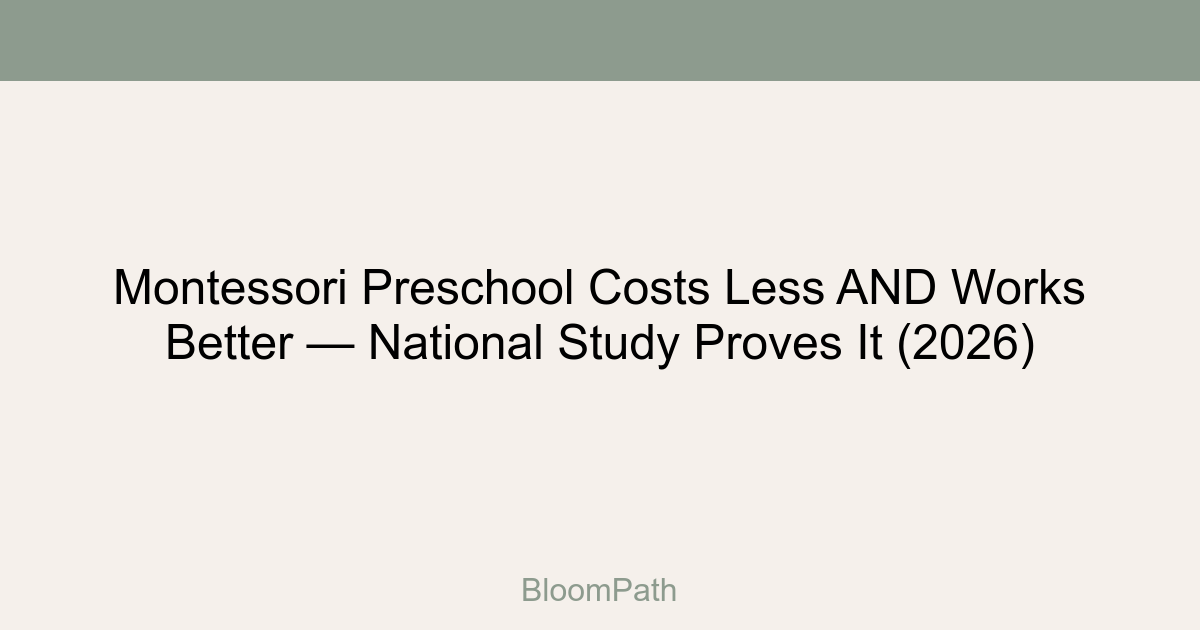
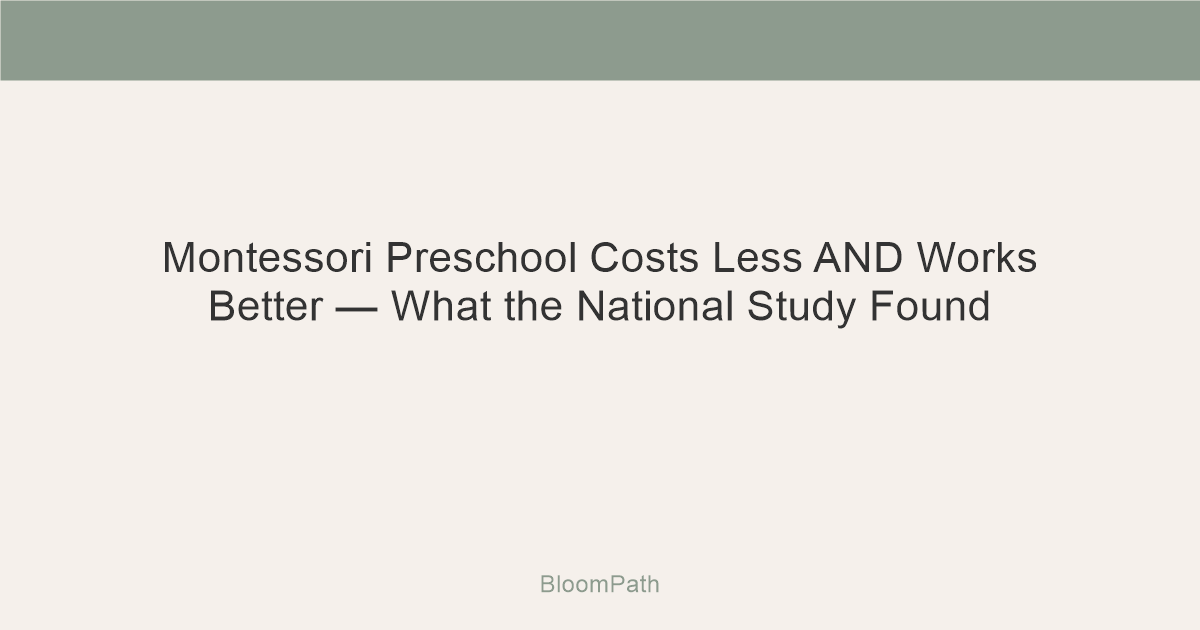
Correct the study year in four PNAS Montessori titles
The Lillard et al. national trial was published in PNAS in October 2025;
four titles called it a 2026 study. Update titles, link text, OG images
and the titles index.

Changed region(s): [[0.0925, 0.3619, 0.925, 0.573], [0.4317, 0.9048, 0.555, 0.9651]]

diff --git a/src/content/blog/short-video-addiction-tweens-montessori-en.md b/src/content/blog/short-video-addiction-tweens-montessori-en.md
@@ -90,6 +90,6 @@ Move the phone's charging spot out of the bedroom, replace algorithm-fed feeds w
 - [Your Kid Came Home From a Birthday Party Begging for Roblox? Set Up These 5 Things Before You Say Yes](/en/blog/kid-wants-roblox-parental-controls-en)
 - [Is AI Doing My Kid's Thinking For Her? What 'Cognitive Debt' Research Actually Says](/en/blog/ai-cognitive-debt-kids-en)
 - [Teen Mental Health in 2026: Warning Signs Every Parent Should Know](/en/blog/teen-mental-health-warning-signs-2026-en)
-- [Montessori Preschool Costs Less AND Works Better — National Study Proves It (2026)](/en/blog/montessori-national-study-2026-results-en)
+- [Montessori Preschool Costs Less AND Works Better — What the National Study Found](/en/blog/montessori-national-study-2026-results-en)
 
 You don't need to ban every screen or win every argument tonight. You just need to change what the environment makes easiest.

diff --git a/src/content/blog/kid-cries-over-mistakes-perfectionism-en.md b/src/content/blog/kid-cries-over-mistakes-perfectionism-en.md
@@ -119,4 +119,4 @@ Want a simple place to jot down what actually helps when your kid is having a ha
 - [Toddler Low Frustration Tolerance: Why Small Things Cause Big Meltdowns](/en/blog/toddler-low-frustration-tolerance-meltdowns-en)
 - [Why Your Toddler Lies (And Why It's Actually a Sign of a Smart Brain)](/en/blog/why-toddler-lies-en)
 - [Should Kids Get Paid for Chores? What Montessori Actually Says About Contribution vs. Cash](/en/blog/should-kids-be-paid-for-chores-montessori-en)
-- [Montessori vs Traditional Preschool: What the 2026 PNAS Study Reveals About Executive Function](/en/blog/montessori-executive-function-pnas-2026-parent-guide-en)
+- [Montessori vs Traditional Preschool: What the PNAS Study Reveals About Executive Function](/en/blog/montessori-executive-function-pnas-2026-parent-guide-en)

diff --git a/src/content/blog/kid-cries-over-mistakes-perfectionism-zh.md b/src/content/blog/kid-cries-over-mistakes-perfectionism-zh.md
@@ -119,4 +119,4 @@ draft: false
 - [六點半才肯打開作業本：孩子功課拖到快抓狂，工程師爸爸的除錯筆記](/zh/blog/kids-homework-procrastination-zh)
 - [孩子一點小事就崩潰、動不動就大哭：挫折耐受度是可以練的](/zh/blog/toddler-low-frustration-tolerance-zh)
 - [孩子說謊不是我弄的！3 個正確第一反應讓他以後主動說真話](/zh/blog/why-toddler-lies-zh)
-- [蒙特梭利幼兒園真的比較好嗎？2026 PNAS 研究揭密執行功能的關鍵](/zh/blog/montessori-executive-function-pnas-2026-parent-guide-zh)
+- [蒙特梭利幼兒園真的比較好嗎？PNAS 研究揭密執行功能的關鍵](/zh/blog/montessori-executive-function-pnas-2026-parent-guide-zh)

diff --git a/src/content/blog/montessori-national-study-2026-results-en.md b/src/content/blog/montessori-national-study-2026-results-en.md
@@ -1,5 +1,5 @@
 ---
-title: "Montessori Preschool Costs Less AND Works Better — National Study Proves It (2026)"
+title: "Montessori Preschool Costs Less AND Works Better — What the National Study Found"
 description: "The first national randomized controlled trial of public Montessori preschool is in: children scored higher in reading, executive function, memory, and social understanding — while costing $13,000 less per child. Here's what the data actually says."
 pubDate: "2026-04-16"
 tags: ["montessori", "preschool", "child development", "education research", "montessori vs traditional"]

diff --git a/src/content/blog/montessori-executive-function-pnas-2026-parent-guide-en.md b/src/content/blog/montessori-executive-function-pnas-2026-parent-guide-en.md
@@ -1,5 +1,5 @@
 ---
-title: "Montessori vs Traditional Preschool: What the 2026 PNAS Study Reveals About Executive Function"
+title: "Montessori vs Traditional Preschool: What the PNAS Study Reveals About Executive Function"
 description: "A 588-child randomized controlled trial found Montessori kids outperform peers in executive function at kindergarten — and the advantage grows over time. Here's what every parent needs to know before choosing a preschool."
 pubDate: "2026-04-25"
 tags: ["montessori", "executive function", "preschool", "child development", "education research"]

diff --git a/src/content/blog/montessori-executive-function-pnas-2026-parent-guide-zh.md b/src/content/blog/montessori-executive-function-pnas-2026-parent-guide-zh.md
@@ -1,5 +1,5 @@
 ---
-title: "蒙特梭利幼兒園真的比較好嗎？2026 PNAS 研究揭密執行功能的關鍵"
+title: "蒙特梭利幼兒園真的比較好嗎？PNAS 研究揭密執行功能的關鍵"
 description: "近 600 個孩子的隨機對照試驗發現：蒙特梭利幼兒園畢業的孩子，執行功能、閱讀和社會理解全面領先——而且效果不會隨時間消退。台灣爸媽選校前必讀。"
 pubDate: "2026-04-25"
 tags: ["蒙特梭利", "執行功能", "幼兒園選校", "兒童發展", "教育研究", "學前教育台灣"]

diff --git a/src/content/blog/montessori-national-study-2026-results-zh.md b/src/content/blog/montessori-national-study-2026-results-zh.md
@@ -1,5 +1,5 @@
 ---
-title: "蒙特梭利小孩真的比較聰明嗎？2026 最新研究這樣說"
+title: "蒙特梭利小孩真的比較聰明嗎？美國全國研究這樣說"
 description: "美國首次全國性隨機對照試驗結果出爐：公立蒙特梭利幼兒園的孩子在閱讀、執行功能、記憶力和社會理解力都贏過同齡，而且三年下來每個孩子還省了台幣 40 萬。研究怎麼說？爸媽可以怎麼用？"
 pubDate: "2026-04-16"
 tags: ["蒙特梭利", "幼兒園", "兒童發展", "教育研究", "學前教育"]
